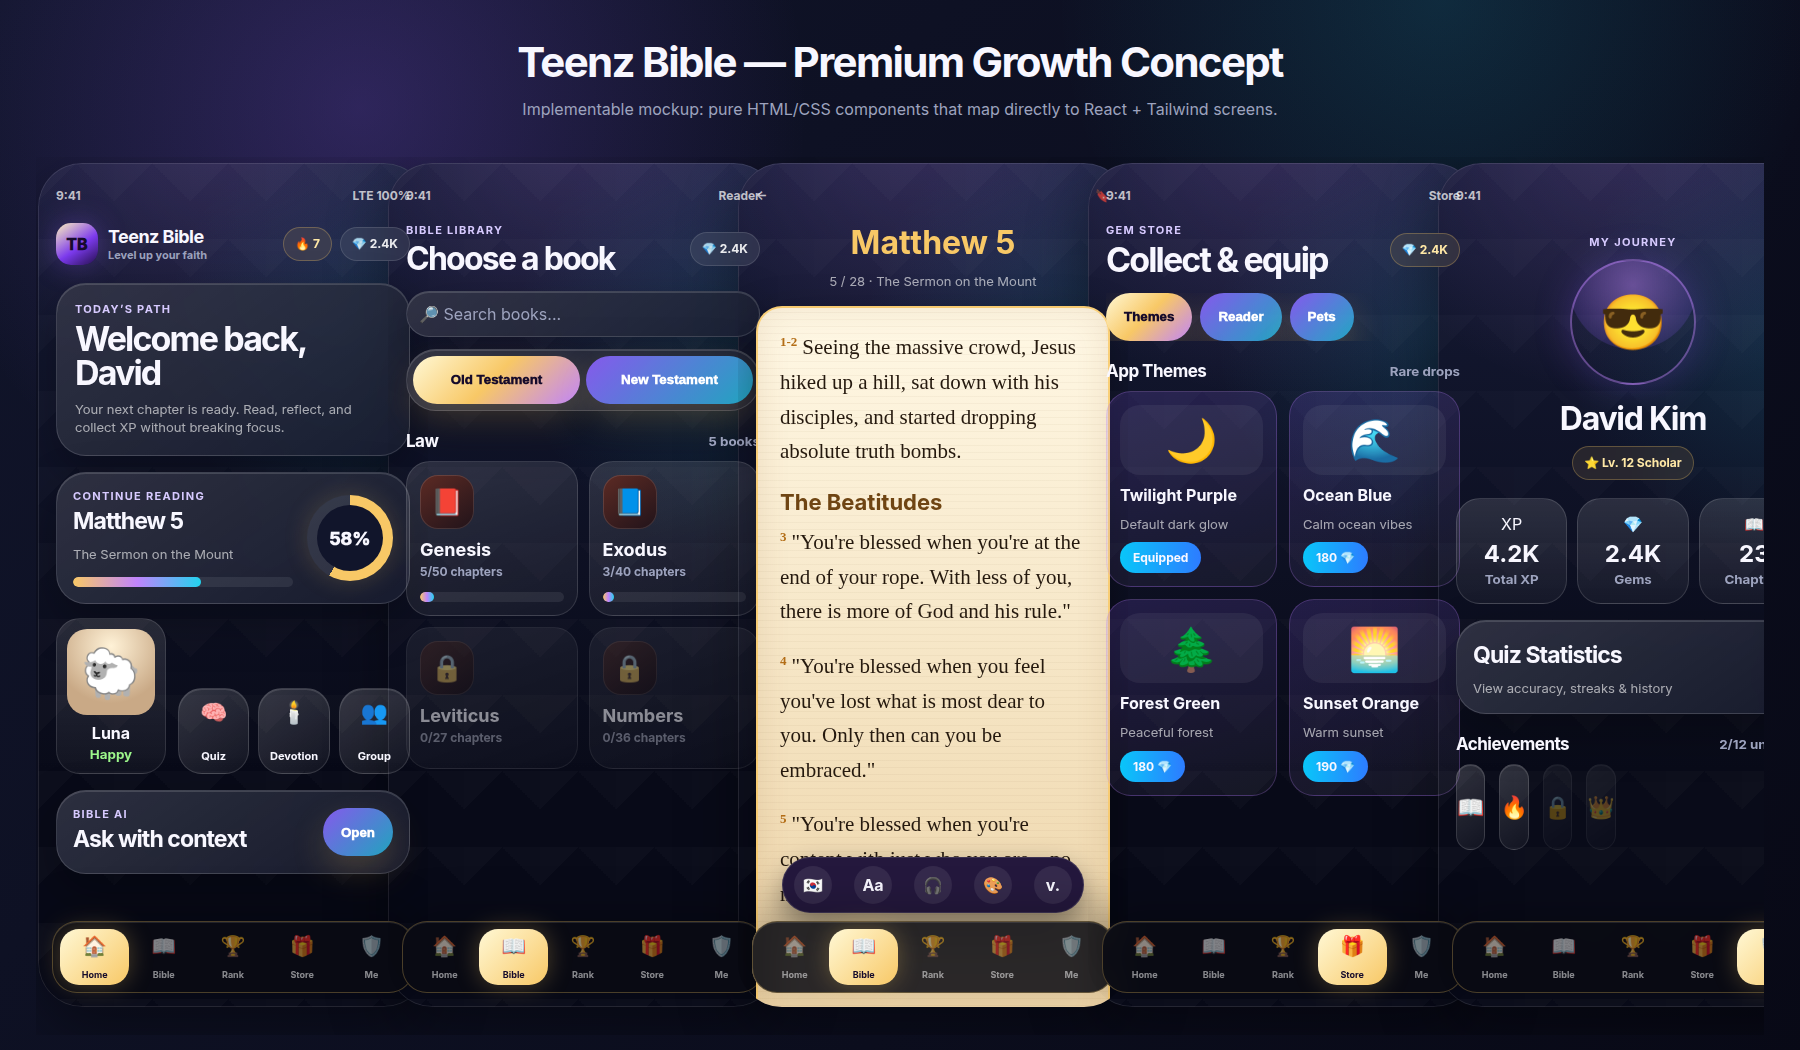
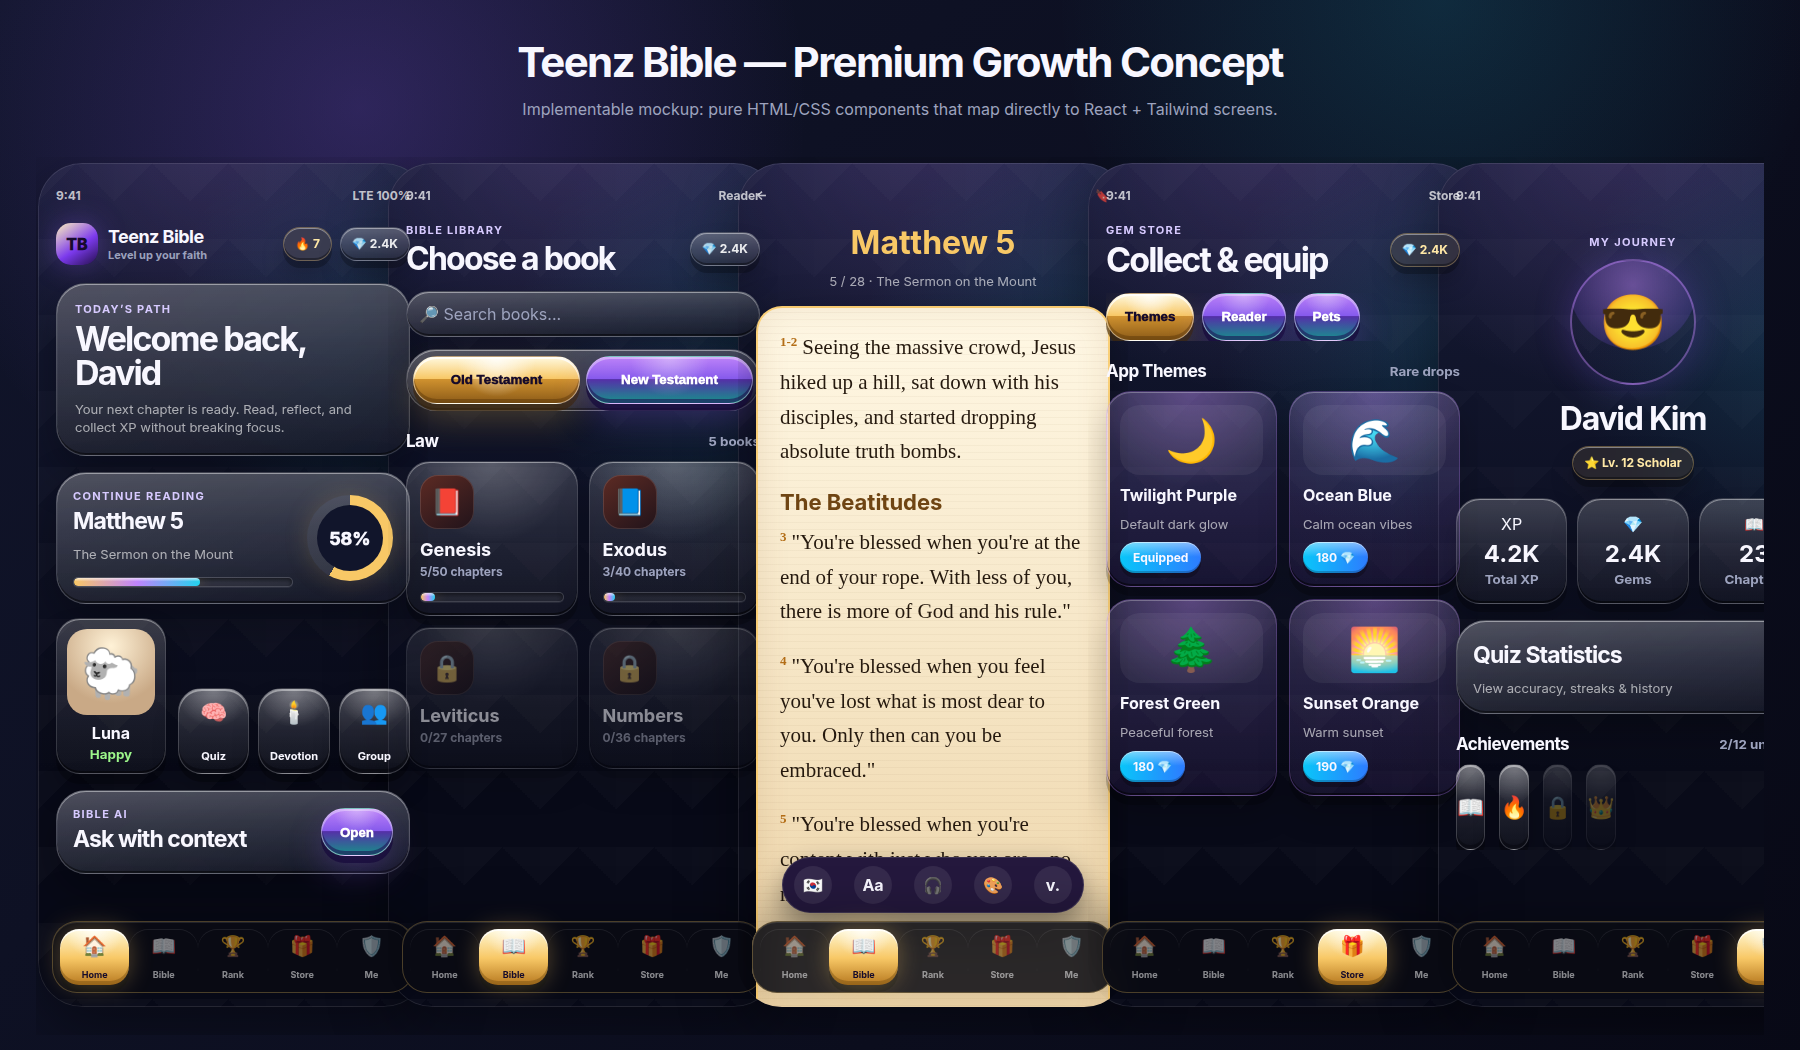
Add depth to premium growth mockup

diff --git a/design-mockups/teenz-bible-premium-growth-concept.html b/design-mockups/teenz-bible-premium-growth-concept.html
@@ -24,6 +24,9 @@
       --shadow: 0 24px 60px rgba(0,0,0,.38);
       --glow-violet: 0 0 36px rgba(139,92,246,.25);
       --font: Inter, ui-sans-serif, system-ui, -apple-system, BlinkMacSystemFont, "Noto Sans KR", sans-serif;
+      --bevel-light: rgba(255,255,255,.42);
+      --bevel-mid: rgba(255,255,255,.16);
+      --bevel-dark: rgba(0,0,0,.55);
     }
 
     * { box-sizing: border-box; }
@@ -104,8 +107,10 @@
       min-height: 34px;
       padding: 7px 11px;
       border-radius: 999px;
-      background: rgba(255,255,255,.08);
-      border: 1px solid rgba(255,255,255,.12);
+      background:
+        linear-gradient(180deg, rgba(255,255,255,.2), rgba(255,255,255,.07) 46%, rgba(0,0,0,.18)),
+        rgba(255,255,255,.08);
+      border: 1px solid rgba(255,255,255,.16);
       display: inline-flex;
       align-items: center;
       gap: 6px;
@@ -113,16 +118,26 @@
       font-weight: 850;
       color: rgba(255,255,255,.9);
       backdrop-filter: blur(16px);
+      box-shadow:
+        inset 0 1px 0 var(--bevel-light),
+        inset 0 -2px 0 rgba(0,0,0,.36),
+        0 7px 0 rgba(0,0,0,.24),
+        0 14px 24px rgba(0,0,0,.2);
     }
     .chip.gold { color: #ffe8a6; border-color: rgba(248,200,102,.28); background: rgba(248,200,102,.1); }
 
     .hero-card, .glass-card {
       border-radius: var(--radius-xl);
       background:
+        linear-gradient(180deg, rgba(255,255,255,.16), rgba(255,255,255,.065) 42%, rgba(0,0,0,.16)),
         linear-gradient(145deg, rgba(255,255,255,.13), rgba(255,255,255,.045)),
         rgba(14,18,38,.76);
-      border: 1px solid rgba(255,255,255,.14);
-      box-shadow: 0 18px 48px rgba(0,0,0,.28), inset 0 1px rgba(255,255,255,.14);
+      border: 1px solid rgba(255,255,255,.16);
+      box-shadow:
+        0 18px 48px rgba(0,0,0,.32),
+        inset 0 1px 0 var(--bevel-light),
+        inset 0 -2px 0 rgba(0,0,0,.48),
+        inset 0 0 0 1px rgba(255,255,255,.045);
       backdrop-filter: blur(18px);
     }
     .hero-card { margin-top: 18px; padding: 18px; overflow: hidden; }
@@ -138,18 +153,42 @@
     .hero-copy { margin: 10px 0 0; color: rgba(255,255,255,.62); font-size: 13px; line-height: 1.45; }
     .cta {
       appearance: none;
-      border: 0;
+      border: 1px solid rgba(255,255,255,.42);
       border-radius: 999px;
       min-height: 48px;
       padding: 0 18px;
       color: #160b2b;
       font-weight: 950;
-      background: linear-gradient(135deg, #fff8d5, #f8c866 48%, #c084fc);
-      box-shadow: 0 14px 34px rgba(248,200,102,.2);
+      background:
+        radial-gradient(circle at 50% 0%, rgba(255,255,255,.82), transparent 42%),
+        linear-gradient(180deg, #fff9df 0%, #f8c866 47%, #d0922f 48%, #8c5b18 100%);
+      box-shadow:
+        inset 0 2px 0 rgba(255,255,255,.78),
+        inset 0 -4px 0 rgba(92,57,8,.48),
+        0 7px 0 rgba(58,36,8,.62),
+        0 16px 34px rgba(248,200,102,.25);
+      transform: translateY(0);
+      transition: transform .12s ease, box-shadow .12s ease, filter .12s ease;
     }
     .cta.dark {
       color: white;
-      background: linear-gradient(135deg, rgba(139,92,246,.95), rgba(34,211,238,.75));
+      background:
+        radial-gradient(circle at 50% 0%, rgba(255,255,255,.36), transparent 42%),
+        linear-gradient(180deg, rgba(192,132,252,.98), rgba(139,92,246,.95) 48%, rgba(87,49,174,.95) 49%, rgba(20,184,166,.75) 100%);
+      box-shadow:
+        inset 0 2px 0 rgba(255,255,255,.35),
+        inset 0 -4px 0 rgba(31,11,80,.56),
+        0 7px 0 rgba(22,10,58,.72),
+        0 16px 34px rgba(139,92,246,.28);
+    }
+    .cta:active {
+      transform: translateY(5px);
+      box-shadow:
+        inset 0 2px 0 rgba(255,255,255,.45),
+        inset 0 -2px 0 rgba(0,0,0,.25),
+        0 2px 0 rgba(0,0,0,.55),
+        0 8px 22px rgba(0,0,0,.24);
+      filter: brightness(.96);
     }
 
     .mission {
@@ -161,8 +200,24 @@
       align-items: center;
     }
     .mission h3 { margin: 4px 0; font-size: 23px; letter-spacing: -.04em; }
-    .progress-track { height: 10px; border-radius: 999px; background: rgba(255,255,255,.08); overflow: hidden; margin-top: 13px; }
-    .progress-fill { height: 100%; width: 58%; border-radius: inherit; background: linear-gradient(90deg, var(--gold), var(--violet-2), var(--cyan)); }
+    .progress-track {
+      height: 10px;
+      border-radius: 999px;
+      background: rgba(255,255,255,.08);
+      overflow: hidden;
+      margin-top: 13px;
+      border: 1px solid rgba(255,255,255,.12);
+      box-shadow: inset 0 2px 5px rgba(0,0,0,.55), 0 1px 0 rgba(255,255,255,.08);
+    }
+    .progress-fill {
+      height: 100%;
+      width: 58%;
+      border-radius: inherit;
+      background:
+        linear-gradient(180deg, rgba(255,255,255,.65), transparent 45%),
+        linear-gradient(90deg, var(--gold), var(--violet-2), var(--cyan));
+      box-shadow: 0 0 16px rgba(248,200,102,.32);
+    }
     .ring {
       width: 86px; height: 86px; border-radius: 50%;
       display: grid; place-items: center;
@@ -178,7 +233,20 @@
     }
 
     .pet-strip { display: grid; grid-template-columns: 110px 1fr; gap: 12px; margin-top: 14px; }
-    .pet-card { padding: 10px; text-align: center; border-radius: 24px; background: linear-gradient(180deg, rgba(255,255,255,.12), rgba(255,255,255,.04)); border: 1px solid rgba(255,255,255,.12); }
+    .pet-card {
+      padding: 10px;
+      text-align: center;
+      border-radius: 24px;
+      background:
+        linear-gradient(180deg, rgba(255,255,255,.16), rgba(255,255,255,.045) 50%, rgba(0,0,0,.12)),
+        rgba(255,255,255,.04);
+      border: 1px solid rgba(255,255,255,.14);
+      box-shadow:
+        inset 0 1px 0 var(--bevel-light),
+        inset 0 -2px 0 rgba(0,0,0,.45),
+        0 10px 0 rgba(0,0,0,.22),
+        0 18px 30px rgba(0,0,0,.22);
+    }
     .pet-face {
       height: 86px; border-radius: 20px; display: grid; place-items: center;
       background: radial-gradient(circle at 50% 20%, #fff2d7, #c9a986 70%);
@@ -190,13 +258,20 @@
     .action {
       min-height: 86px;
       border-radius: 24px;
-      border: 1px solid rgba(255,255,255,.14);
-      background: linear-gradient(145deg, rgba(255,255,255,.16), rgba(255,255,255,.045));
+      border: 1px solid rgba(255,255,255,.18);
+      background:
+        radial-gradient(circle at 50% 0%, rgba(255,255,255,.32), transparent 42%),
+        linear-gradient(180deg, rgba(255,255,255,.18), rgba(255,255,255,.06) 50%, rgba(0,0,0,.15)),
+        rgba(255,255,255,.045);
       display: grid;
       place-items: center;
       text-align: center;
       font-size: 22px;
-      box-shadow: inset 0 1px rgba(255,255,255,.12);
+      box-shadow:
+        inset 0 2px 0 rgba(255,255,255,.42),
+        inset 0 -4px 0 rgba(0,0,0,.28),
+        0 8px 0 rgba(0,0,0,.28),
+        0 16px 26px rgba(0,0,0,.22);
     }
     .action span { display: block; font-size: 11px; font-weight: 900; margin-top: 4px; }
 
@@ -209,10 +284,18 @@
       min-height: 142px;
       padding: 13px;
       border-radius: 24px;
-      background: linear-gradient(160deg, rgba(255,255,255,.12), rgba(255,255,255,.04));
+      background:
+        radial-gradient(circle at 50% 0%, rgba(255,255,255,.18), transparent 46%),
+        linear-gradient(180deg, rgba(255,255,255,.13), rgba(255,255,255,.045) 48%, rgba(0,0,0,.12)),
+        rgba(255,255,255,.04);
       border: 1px solid rgba(255,255,255,.13);
       position: relative;
       overflow: hidden;
+      box-shadow:
+        inset 0 1px 0 var(--bevel-light),
+        inset 0 -2px 0 rgba(0,0,0,.5),
+        0 9px 0 rgba(0,0,0,.22),
+        0 18px 32px rgba(0,0,0,.22);
     }
     .book-card.locked { opacity:.54; filter:saturate(.55); }
     .book-icon {
@@ -250,10 +333,35 @@
     .reader-toolbar b { width:38px; height:38px; display:grid; place-items:center; border-radius:50%; background:rgba(255,255,255,.08); }
 
     .store-grid { display:grid; grid-template-columns: repeat(2, 1fr); gap: 12px; }
-    .item-card { border-radius: 25px; padding: 13px; min-height: 165px; background: linear-gradient(160deg, rgba(139,92,246,.18), rgba(255,255,255,.04)); border:1px solid rgba(192,132,252,.25); }
+    .item-card {
+      border-radius: 25px;
+      padding: 13px;
+      min-height: 165px;
+      background:
+        radial-gradient(circle at 50% 0%, rgba(192,132,252,.28), transparent 45%),
+        linear-gradient(180deg, rgba(255,255,255,.1), rgba(255,255,255,.035) 48%, rgba(0,0,0,.16)),
+        rgba(139,92,246,.12);
+      border:1px solid rgba(192,132,252,.25);
+      box-shadow:
+        inset 0 1px 0 rgba(255,255,255,.28),
+        inset 0 -2px 0 rgba(0,0,0,.5),
+        0 9px 0 rgba(0,0,0,.22),
+        0 18px 32px rgba(0,0,0,.2);
+    }
     .item-art { height:70px; border-radius:20px; display:grid; place-items:center; font-size:42px; background: rgba(255,255,255,.06); }
     .item-card h4 { margin: 10px 0 3px; }
-    .price { margin-top:9px; display:inline-flex; padding: 8px 13px; border-radius:999px; background:linear-gradient(90deg, #09c6f9, #2d7cff); font-weight:900; font-size:12px; }
+    .price {
+      margin-top:9px;
+      display:inline-flex;
+      padding: 8px 13px;
+      border-radius:999px;
+      background:
+        linear-gradient(180deg, rgba(255,255,255,.45), transparent 48%),
+        linear-gradient(90deg, #09c6f9, #2d7cff);
+      font-weight:900;
+      font-size:12px;
+      box-shadow: inset 0 1px 0 rgba(255,255,255,.5), inset 0 -2px 0 rgba(0,0,0,.22), 0 5px 0 rgba(0,0,0,.24);
+    }
 
     .profile-hero { text-align:center; padding-top:12px; }
     .avatar {
@@ -265,7 +373,20 @@
     }
     .profile-hero h2 { margin:0; font-size:32px; letter-spacing:-.04em; }
     .stat-row { display:grid; grid-template-columns: repeat(3, 1fr); gap:10px; margin-top:18px; }
-    .stat-card { text-align:center; border-radius:24px; padding:15px 10px; background:linear-gradient(180deg, rgba(255,255,255,.12), rgba(255,255,255,.045)); border:1px solid rgba(255,255,255,.14); }
+    .stat-card {
+      text-align:center;
+      border-radius:24px;
+      padding:15px 10px;
+      background:
+        linear-gradient(180deg, rgba(255,255,255,.16), rgba(255,255,255,.045) 52%, rgba(0,0,0,.14)),
+        rgba(255,255,255,.04);
+      border:1px solid rgba(255,255,255,.14);
+      box-shadow:
+        inset 0 1px 0 var(--bevel-light),
+        inset 0 -2px 0 rgba(0,0,0,.5),
+        0 8px 0 rgba(0,0,0,.22),
+        0 16px 28px rgba(0,0,0,.2);
+    }
     .stat-card strong { display:block; font-size:24px; margin-top:5px; }
     .stat-card small { color:var(--muted); font-weight:800; }
 
@@ -278,8 +399,14 @@
       box-shadow: 0 -12px 40px rgba(0,0,0,.25), inset 0 1px rgba(255,255,255,.1);
       display:grid; grid-template-columns:repeat(5,1fr); padding:7px;
     }
-    .tab { display:grid; place-items:center; color:rgba(255,255,255,.52); font-size:20px; border-radius:19px; }
-    .tab.active { color:#160b2b; background:linear-gradient(135deg,#fff8d5,#f8c866); box-shadow:0 0 24px rgba(248,200,102,.28); }
+    .tab { display:grid; place-items:center; color:rgba(255,255,255,.52); font-size:20px; border-radius:19px; box-shadow: inset 0 1px 0 rgba(255,255,255,.08); }
+    .tab.active {
+      color:#160b2b;
+      background:
+        radial-gradient(circle at 50% 0%, rgba(255,255,255,.8), transparent 45%),
+        linear-gradient(180deg,#fff8d5,#f8c866 52%, #b77920);
+      box-shadow: inset 0 2px 0 rgba(255,255,255,.8), inset 0 -4px 0 rgba(111,73,15,.4), 0 0 24px rgba(248,200,102,.32), 0 7px 0 rgba(0,0,0,.2);
+    }
     .tab small { display:block; font-size:9px; font-weight:900; margin-top:1px; }
   </style>
 </head>
